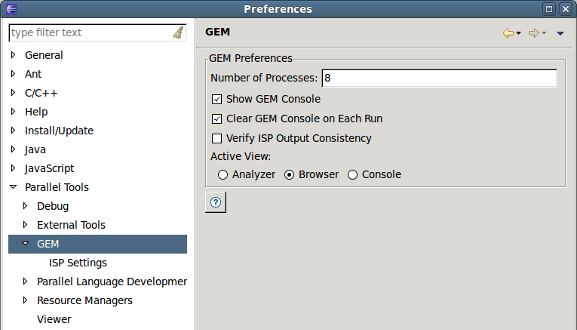
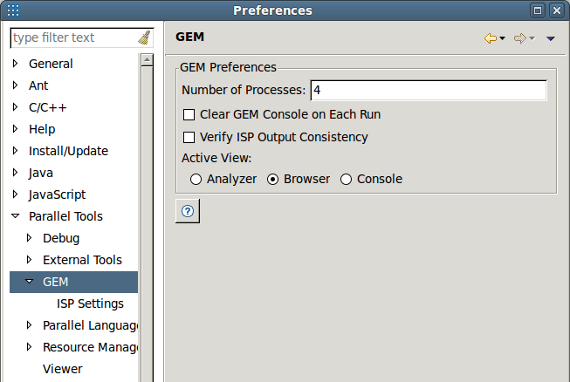
Enhancements to GEM Console functionality. Also some minor alterations to GEM preference pages.  Corresponding sections in GEM Help plugin have also been updated.

diff --git a/tools/gem/org.eclipse.ptp.gem.help/html/preferences.html b/tools/gem/org.eclipse.ptp.gem.help/html/preferences.html
@@ -69,14 +69,6 @@ GEM has two preference pages:
 	</td>
 </tr>
 <tr>
-	<td>Show GEM Console</td>
-	<td>
-		When enabled (checked), the GEM Console will be open after each GEM verification run. It is suggested that a
-		user <b>enable</b> this feature, as the GEM Console reports important error information if it exists for 
-		a particular verification.
-	</td>
-</tr>
-<tr>
 	<td>Clear GEM Console on Each Run</td>
 	<td>
 		When enabled (checked), the GEM Console will be cleared prior to each verification run. If this preference

diff --git a/tools/gem/org.eclipse.ptp.gem/src/org/eclipse/ptp/gem/util/GemUtilities.java b/tools/gem/org.eclipse.ptp.gem/src/org/eclipse/ptp/gem/util/GemUtilities.java
@@ -820,7 +820,6 @@ public class GemUtilities {
 	public static int runCommand(String command, boolean verbose) {
 		try {
 			final IPreferenceStore pstore = GemPlugin.getDefault().getPreferenceStore();
-			final boolean showConsole = pstore.getBoolean(PreferenceConstants.GEM_PREF_SHOWCON);
 			process = Runtime.getRuntime().exec(command);
 			final StringBuffer stringBuffer = new StringBuffer();
 			String stdOut = ""; //$NON-NLS-1$
@@ -846,14 +845,14 @@ public class GemUtilities {
 					stringBuffer.append("\n"); //$NON-NLS-1$
 					consoleStdOutMessage += stdOut + "\n";//$NON-NLS-1$
 					if (!stdOutReader.ready()) {
-						updateConsole(verbose, showConsole);
+						updateConsole(verbose, true);
 						consoleStdOutMessage = "";//$NON-NLS-1$
 					}
 				}
 				stdOutResult = stringBuffer.toString();
 
 				// cleanup, send last few lines
-				updateConsole(verbose, showConsole);
+				updateConsole(verbose, true);
 
 				// read the process error stream
 				stringBuffer.setLength(0);
@@ -863,14 +862,14 @@ public class GemUtilities {
 					consoleStdErrMessage += stdErr + "\n";//$NON-NLS-1$
 
 					if (!stdErrReader.ready()) {
-						updateConsole(verbose, showConsole);
+						updateConsole(verbose, true);
 						consoleStdErrMessage = "";//$NON-NLS-1$
 					}
 				}
 				stdErrResult = stringBuffer.toString();
 
 				// cleanup, send last few lines
-				updateConsole(verbose, showConsole);
+				updateConsole(verbose, true);
 			} catch (final Exception e) {
 				logExceptionDetail(e);
 				return -1;

diff --git a/tools/gem/org.eclipse.ptp.gem/src/org/eclipse/ptp/gem/popup/actions/VerificationPopUpAction.java b/tools/gem/org.eclipse.ptp.gem/src/org/eclipse/ptp/gem/popup/actions/VerificationPopUpAction.java
@@ -27,7 +27,6 @@ import org.eclipse.ptp.gem.preferences.PreferenceConstants;
 import org.eclipse.ptp.gem.util.GemUtilities;
 import org.eclipse.ptp.gem.views.GemAnalyzer;
 import org.eclipse.ptp.gem.views.GemBrowser;
-import org.eclipse.ptp.gem.views.GemConsole;
 import org.eclipse.ui.IActionDelegate;
 import org.eclipse.ui.IObjectActionDelegate;
 import org.eclipse.ui.IWorkbenchPage;
@@ -73,15 +72,6 @@ public class VerificationPopUpAction implements IObjectActionDelegate {
 			final IWorkbenchWindow window = PlatformUI.getWorkbench().getActiveWorkbenchWindow();
 			final IWorkbenchPage page = window.getActivePage();
 			final IPreferenceStore pstore = GemPlugin.getDefault().getPreferenceStore();
-
-			// Open the Console View
-			if (pstore.getBoolean(PreferenceConstants.GEM_PREF_SHOWCON)) {
-				try {
-					page.showView(GemConsole.ID);
-				} catch (final PartInitException e) {
-					GemUtilities.logExceptionDetail(e);
-				}
-			}
 
 			// Open GEM views
 			try {

diff --git a/tools/gem/org.eclipse.ptp.gem/src/org/eclipse/ptp/gem/preferences/GemPreferencePage.java b/tools/gem/org.eclipse.ptp.gem/src/org/eclipse/ptp/gem/preferences/GemPreferencePage.java
@@ -56,7 +56,6 @@ public class GemPreferencePage extends FieldEditorPreferencePage implements IWor
 		final Group prefGroup = new Group(fieldEditorParent, SWT.NULL);
 		prefGroup.setText(Messages.GemPreferencePage_0);
 		addField(new IntegerFieldEditor(PreferenceConstants.GEM_PREF_NUMPROCS, Messages.GemPreferencePage_1, prefGroup));
-		addField(new BooleanFieldEditor(PreferenceConstants.GEM_PREF_SHOWCON, Messages.GemPreferencePage_2, prefGroup));
 		addField(new BooleanFieldEditor(PreferenceConstants.GEM_PREF_CLRCON, Messages.GemPreferencePage_3, prefGroup));
 		addField(new BooleanFieldEditor(PreferenceConstants.GEM_PREF_COMPARE_OUTPUT, Messages.GemPreferencePage_6, prefGroup));
 		addField(new RadioGroupFieldEditor(PreferenceConstants.GEM_ACTIVE_VIEW, Messages.GemPreferencePage_5, 3,

diff --git a/tools/gem/org.eclipse.ptp.gem/src/org/eclipse/ptp/gem/views/GemAnalyzer.java b/tools/gem/org.eclipse.ptp.gem/src/org/eclipse/ptp/gem/views/GemAnalyzer.java
@@ -690,16 +690,7 @@ public class GemAnalyzer extends ViewPart {
 				if (isSourceFileExtension) {
 					// Save most recent file reference to preference as a URI
 					GemUtilities.saveMostRecentURI(inputFile.getLocationURI());
-
-					// Open the Console View if the user wants it
 					final IPreferenceStore pstore = GemPlugin.getDefault().getPreferenceStore();
-					try {
-						if (pstore.getBoolean(PreferenceConstants.GEM_PREF_SHOWCON)) {
-							page.showView(GemConsole.ID);
-						}
-					} catch (final PartInitException e) {
-						GemUtilities.logExceptionDetail(e);
-					}
 
 					// Open Analyzer and Browser Views in preference order
 					try {

diff --git a/tools/gem/org.eclipse.ptp.gem/src/org/eclipse/ptp/gem/views/GemBrowser.java b/tools/gem/org.eclipse.ptp.gem/src/org/eclipse/ptp/gem/views/GemBrowser.java
@@ -334,16 +334,7 @@ public class GemBrowser extends ViewPart {
 				if (isSourceFileExtension) {
 					// Save most recent file reference to preference as a URI
 					GemUtilities.saveMostRecentURI(inputFile.getLocationURI());
-
-					// Open the Console View if the user wants it
 					final IPreferenceStore pstore = GemPlugin.getDefault().getPreferenceStore();
-					try {
-						if (pstore.getBoolean(PreferenceConstants.GEM_PREF_SHOWCON)) {
-							page.showView(GemConsole.ID);
-						}
-					} catch (final PartInitException e) {
-						GemUtilities.logExceptionDetail(e);
-					}
 
 					// Open Analyzer and Browser Views in preference order
 					try {

diff --git a/tools/gem/org.eclipse.ptp.gem/src/org/eclipse/ptp/gem/preferences/PreferenceConstants.java b/tools/gem/org.eclipse.ptp.gem/src/org/eclipse/ptp/gem/preferences/PreferenceConstants.java
@@ -36,7 +36,6 @@ public class PreferenceConstants {
 	public static final String GEM_PREF_REPORTNUM = "reportNumPreference"; //$NON-NLS-1$
 	public static final String GEM_PREF_HOSTNAME = "hostName"; //$NON-NLS-1$
 	public static final String GEM_PREF_CLRCON = "clearConsolePreference"; //$NON-NLS-1$
-	public static final String GEM_PREF_SHOWCON = "showConsolePreference"; //$NON-NLS-1$
 	public static final String GEM_ACTIVE_VIEW = "activeViewPreference"; //$NON-NLS-1$
 	public static final String GEM_CONSOLE = "console"; //$NON-NLS-1$
 	public static final String GEM_BROWSER = "browser"; //$NON-NLS-1$

diff --git a/tools/gem/org.eclipse.ptp.gem/src/org/eclipse/ptp/gem/handlers/GemHandler.java b/tools/gem/org.eclipse.ptp.gem/src/org/eclipse/ptp/gem/handlers/GemHandler.java
@@ -77,16 +77,6 @@ public class GemHandler extends AbstractHandler {
 			return null;
 		}
 
-		// Likewise, if we are just opening the console, do so and break early
-		if (cmdString.equals("org.eclipse.ptp.gem.commands.consoleCommand")) { //$NON-NLS-1$
-			try {
-				page.showView(GemConsole.ID);
-			} catch (final PartInitException e) {
-				GemUtilities.logExceptionDetail(e);
-			}
-			return null;
-		}
-
 		// Otherwise do analysis, filter extension and do the work
 		final IEditorPart editor = page.getActiveEditor();
 		IFile inputFile = null;

diff --git a/tools/gem/org.eclipse.ptp.gem/src/org/eclipse/ptp/gem/preferences/PreferenceInitializer.java b/tools/gem/org.eclipse.ptp.gem/src/org/eclipse/ptp/gem/preferences/PreferenceInitializer.java
@@ -51,7 +51,6 @@ public class PreferenceInitializer extends AbstractPreferenceInitializer {
 		pstore.setDefault(PreferenceConstants.GEM_PREF_REPORTNUM, 4);
 		pstore.setDefault(PreferenceConstants.GEM_PREF_HOSTNAME, ""); //$NON-NLS-1$
 		pstore.setDefault(PreferenceConstants.GEM_PREF_CLRCON, false);
-		pstore.setDefault(PreferenceConstants.GEM_PREF_SHOWCON, false);
 		pstore.setDefault(PreferenceConstants.GEM_ACTIVE_VIEW, "browser"); //$NON-NLS-1$
 
 		// ISP paths, scripts and file names

diff --git a/tools/gem/org.eclipse.ptp.gem/src/org/eclipse/ptp/gem/messages/Messages.java b/tools/gem/org.eclipse.ptp.gem/src/org/eclipse/ptp/gem/messages/Messages.java
@@ -130,7 +130,6 @@ public class Messages extends NLS {
 	public static String GemHandler_1;
 	public static String GemPreferencePage_0;
 	public static String GemPreferencePage_1;
-	public static String GemPreferencePage_2;
 	public static String GemPreferencePage_3;
 	public static String GemPreferencePage_4;
 	public static String GemPreferencePage_5;
